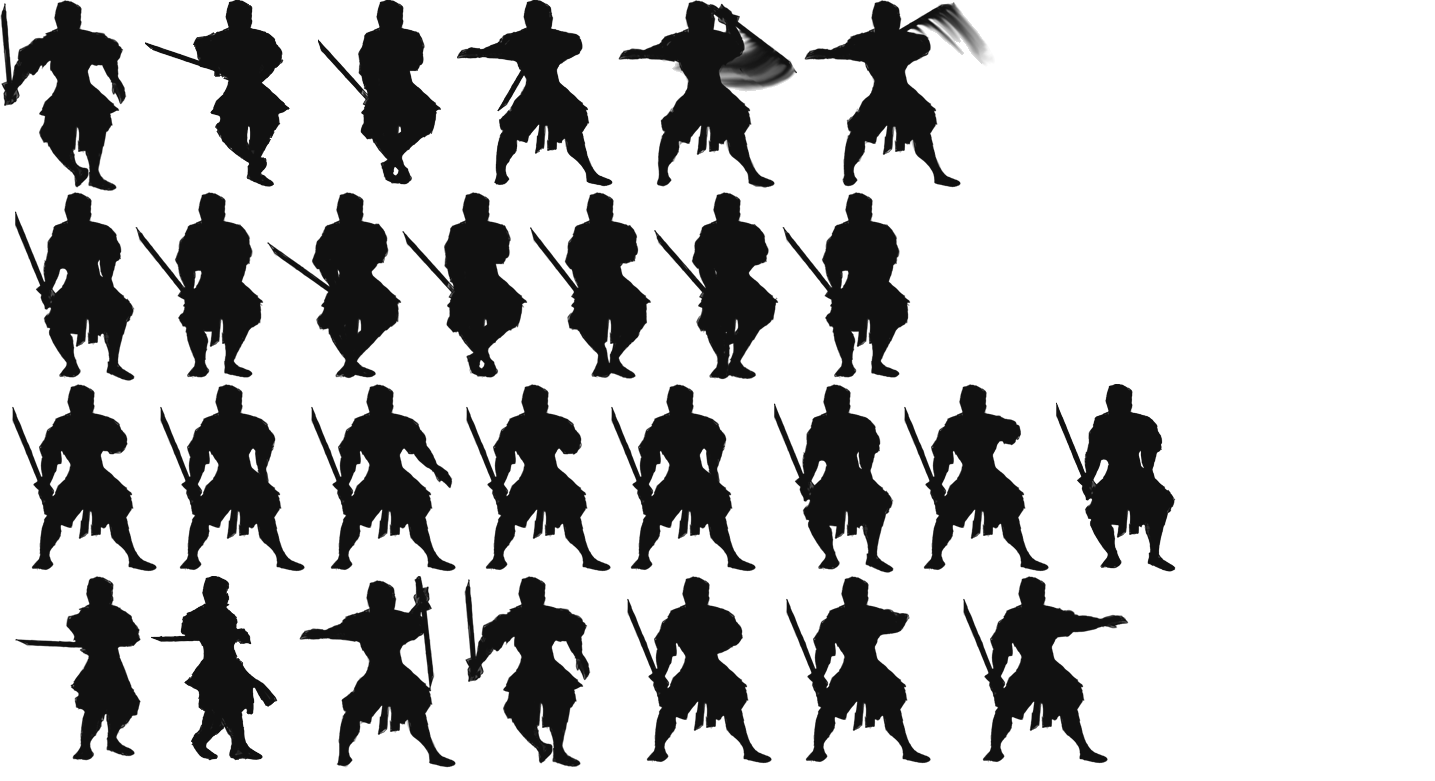
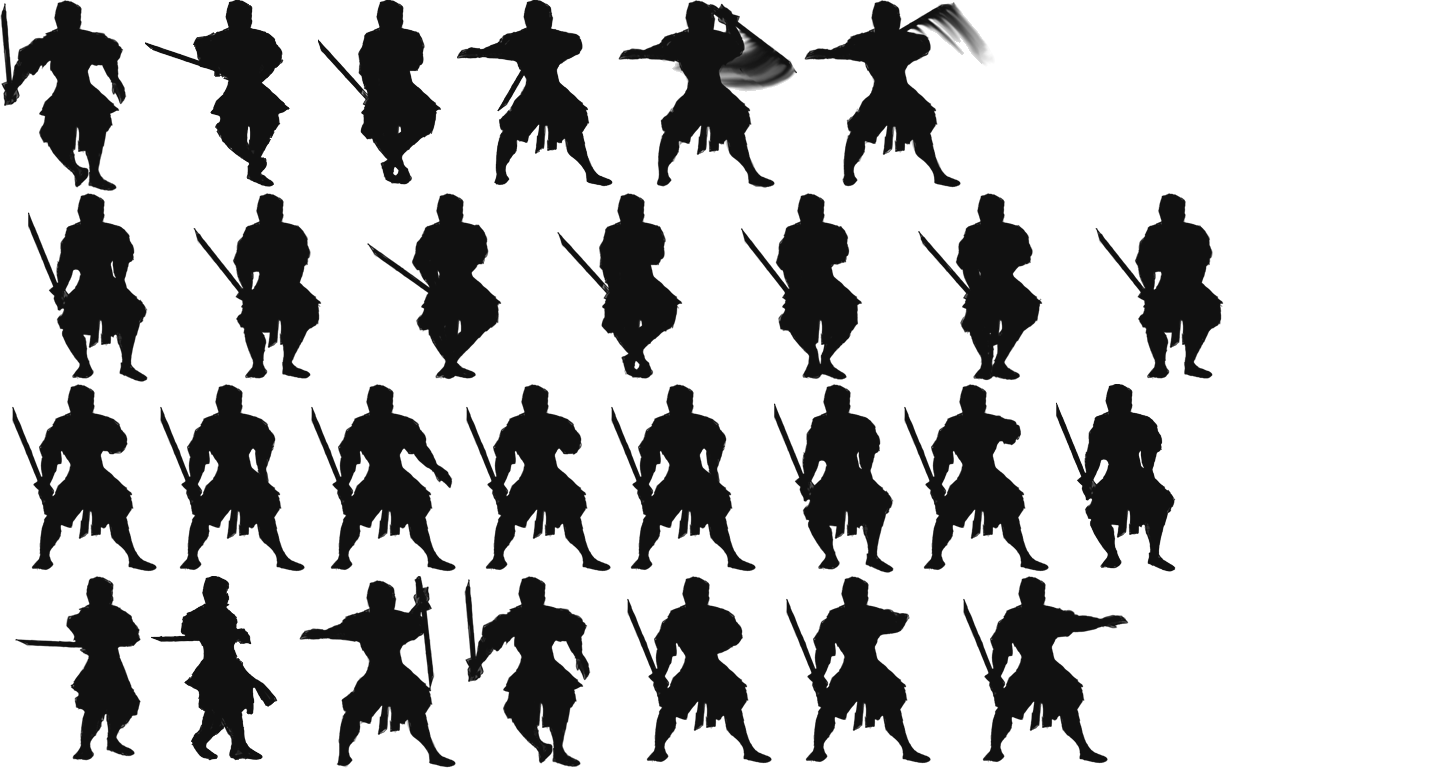
Fix matrix map

Changed region(s): [[0.0, 0.2458, 0.7359, 0.4917], [0.7666, 0.2458, 0.8585, 0.4917]]

diff --git a/scripts/jogo/personagem.js b/scripts/jogo/personagem.js
@@ -1,13 +1,14 @@
 class Personagem extends AnimationFit {
-  constructor(matriz, imagem, variacaoX, variacaoY, scale) {
+  constructor(matriz, imagem, variacaoX, variacaoY, scale = 1) {
     super(matriz, imagem, variacaoX, variacaoY, scale, .5, false);
     this.variacaoY = variacaoY;
     this.variacaoX = variacaoX;
     this.xInicial = this.variacaoX;
-    this.yInicial = height - this.altura - this.variacaoY;
+    this.yInicial = height - matriz[0][3] * scale - this.variacaoY;
     this.y = this.yInicial;
     this.x = this.variacaoX;
-
+    
+    this.largura = matriz[0][2] * scale
     this.velocidadeDoPulo = 0;
     this.gravidade = 6;
     this.alturaDoPulo = -50
@@ -51,17 +52,16 @@ class Personagem extends AnimationFit {
     if (this.invencivel) {
       return false
     }
-
-    const precisao = .7
+    let point = this.getPoint().realSize;
     const colisao = collideRectRect(
       this.x,
       this.y,
-      this.largura * precisao,
-      this.altura * precisao,
+      point[0],
+      point[1],
       inimigo.x,
       inimigo.y,
-      inimigo.largura * precisao,
-      inimigo.altura * precisao
+      inimigo.largura,
+      inimigo.altura
     );
 
     return colisao;

diff --git a/scripts/jogo/animation-fit.js b/scripts/jogo/animation-fit.js
@@ -5,16 +5,32 @@ class AnimationFit {
     this.scale = scale;
     this.x = x;
     this.variacaoY = variacaoY;
-    this.y = height - this.altura - this.variacaoY;
+    this.y = height - matriz[0][2] - this.variacaoY;
 
     this.frameAtual = 0;
     this.frameRate = frameRate;
     this.autoAnime = autoAnime;
   }
 
-  exibe() {
+  getPoint() {
     let fa = Math.floor(this.frameAtual);
-    image(this.imagem, this.x, this.y, this.matriz[fa][2] * this.scale, this.matriz[fa][3] * this.scale, this.matriz[fa][0], this.matriz[fa][1], this.matriz[fa][2], this.matriz[fa][3]);
+    return {
+      point: [
+        this.matriz[fa][0],
+        this.matriz[fa][1],
+        this.matriz[fa][2],
+        this.matriz[fa][3],
+      ],
+        realSize: [
+          this.matriz[fa][2] * this.scale,
+          this.matriz[fa][3] * this.scale,
+        ]
+    }
+  }
+
+  exibe() {
+    let points = this.getPoint();
+    image(this.imagem, this.x, this.y, points.realSize[0], points.realSize[1], points.point[0], points.point[1], points.point[2], points.point[3]);
 
     if (this.autoAnime) {
       this.anima();

diff --git a/scripts/scene/level1.js b/scripts/scene/level1.js
@@ -20,7 +20,8 @@ class Level1 extends Level {
     // pontuacao = new Pontuacao()
     // vida = new Vida(fita.configuracoes.vidaMaxima, fita.configuracoes.vidaInicial)
 
-    personagem = new Personagem(matrizPersonagem[1], imagemPersonagem, 20, 10, 1);
+    personagem = new Personagem(matrizPersonagem[1], imagemPersonagem, 20, 10, 2);
+    
     // const inimigo = new Inimigo(matrizInimigo, imagemInimigo, width - 52, 30, 52, 52, 104, 104, 10);
     // const inimigoVoador = new Inimigo(matrizInimigoVoador, imagemInimigoVoador, width - 52, 200, 100, 75, 200, 150, 10);
     // const inimigoGrande = new Inimigo(matrizInimigoGrande, imagemInimigoGrande, width, 0, 200, 200, 400, 400, 15)

diff --git a/scripts/variaveis.js b/scripts/variaveis.js
@@ -66,13 +66,13 @@ const matrizPersonagem = [
     [804,0,191,192],
   ],
   [
-    [15,192,120,189],
-    [135,192,129,187],
-    [267,192,135,187],
-    [402,192,126,186],
-    [530,192,122,187],
-    [654,192,125,188],
-    [782,192,129,187],
+    [0,192,148,189],
+    [180,192,152,187],
+    [360,192,155,187],
+    [540,192,156,186],
+    [720,192,152,187],
+    [900,192,155,188],
+    [1080,192,129,187],
   ],
   [
     [6,388,145,188],
